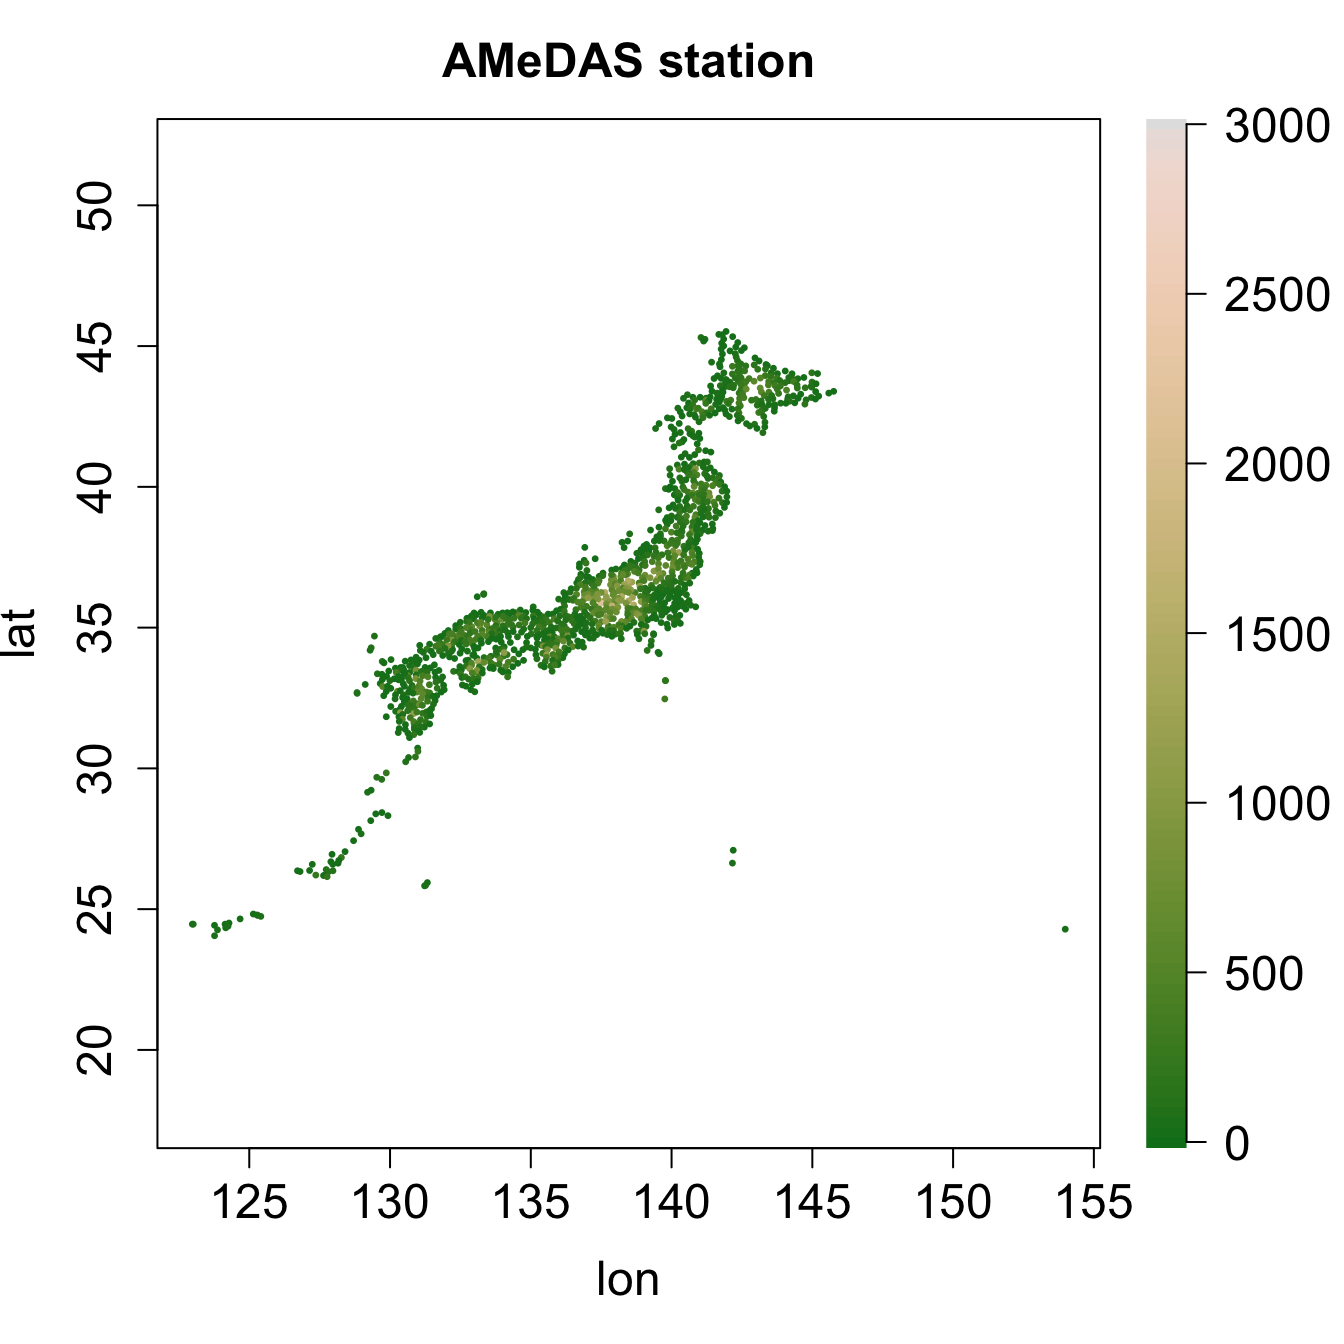
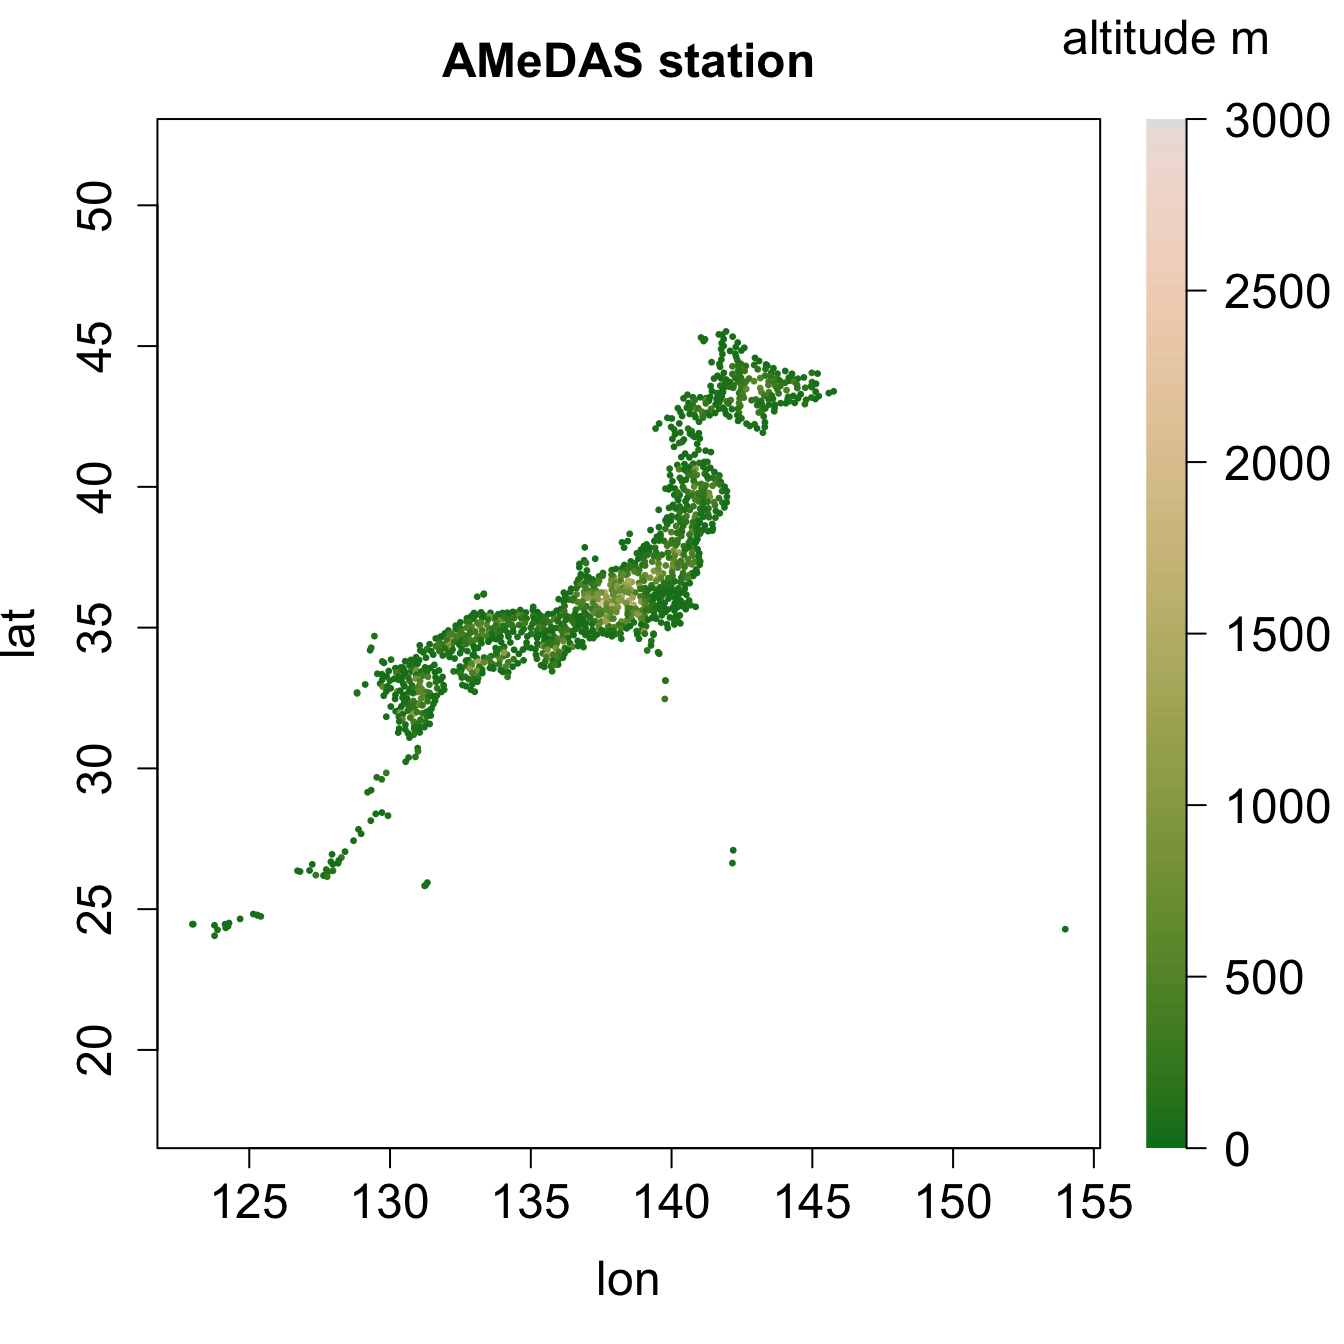
update json
FossilOrigin-Name: 3af52de8a296fb6cc3aaf31696ada55188bd7eaacb9d56dd865cb0d8b09af495

diff --git a/docs/posts/json.html b/docs/posts/json.html
@@ -252,7 +252,7 @@ pre > code.sourceCode > span > a:first-child::before { text-decoration: underlin
 <div class="cell">
 <div class="sourceCode cell-code" id="cb6"><pre class="sourceCode r code-with-copy"><code class="sourceCode r"><span id="cb6-1"><a href="#cb6-1" aria-hidden="true" tabindex="-1"></a>ncol <span class="ot">&lt;-</span> <span class="dv">100</span></span>
 <span id="cb6-2"><a href="#cb6-2" aria-hidden="true" tabindex="-1"></a>cp <span class="ot">&lt;-</span> <span class="fu">hcl.colors</span>(ncol, <span class="st">"Terrain2"</span>)</span>
-<span id="cb6-3"><a href="#cb6-3" aria-hidden="true" tabindex="-1"></a>alt.min <span class="ot">&lt;-</span> <span class="fu">min</span>(df<span class="sc">$</span>alt)</span>
+<span id="cb6-3"><a href="#cb6-3" aria-hidden="true" tabindex="-1"></a>alt.min <span class="ot">&lt;-</span> <span class="dv">0</span></span>
 <span id="cb6-4"><a href="#cb6-4" aria-hidden="true" tabindex="-1"></a>alt.max <span class="ot">&lt;-</span> <span class="dv">3000</span></span>
 <span id="cb6-5"><a href="#cb6-5" aria-hidden="true" tabindex="-1"></a>alt.normalized <span class="ot">&lt;-</span> (df<span class="sc">$</span>alt <span class="sc">-</span> alt.min) <span class="sc">/</span> (alt.max <span class="sc">-</span> alt.min)</span>
 <span id="cb6-6"><a href="#cb6-6" aria-hidden="true" tabindex="-1"></a>cl <span class="ot">&lt;-</span> cp[<span class="fu">ceiling</span>(alt.normalized <span class="sc">*</span> (ncol <span class="sc">-</span> <span class="dv">1</span>) <span class="sc">+</span> <span class="dv">1</span>)]</span>
@@ -266,10 +266,11 @@ pre > code.sourceCode > span > a:first-child::before { text-decoration: underlin
 <span id="cb6-14"><a href="#cb6-14" aria-hidden="true" tabindex="-1"></a>     <span class="at">main =</span> <span class="st">"AMeDAS station"</span>, <span class="at">xlab =</span> <span class="st">"lon"</span>, <span class="at">ylab =</span> <span class="st">"lat"</span>)</span>
 <span id="cb6-15"><a href="#cb6-15" aria-hidden="true" tabindex="-1"></a></span>
 <span id="cb6-16"><a href="#cb6-16" aria-hidden="true" tabindex="-1"></a><span class="fu">par</span>(<span class="at">mar =</span> <span class="fu">c</span>(<span class="dv">5</span>, <span class="fl">0.</span>, <span class="dv">3</span>, <span class="dv">4</span>) <span class="sc">+</span> <span class="fl">0.1</span>)</span>
-<span id="cb6-17"><a href="#cb6-17" aria-hidden="true" tabindex="-1"></a><span class="fu">image</span>(<span class="at">x =</span> <span class="dv">1</span>, <span class="at">y =</span> <span class="fu">seq</span>(alt.min, alt.max, <span class="at">length.out =</span> ncol), <span class="at">z =</span> <span class="fu">matrix</span>(<span class="dv">1</span><span class="sc">:</span>ncol, <span class="dv">1</span>, ncol),</span>
+<span id="cb6-17"><a href="#cb6-17" aria-hidden="true" tabindex="-1"></a><span class="fu">image</span>(<span class="at">x =</span> <span class="dv">1</span>, <span class="at">y =</span> <span class="dv">0</span><span class="sc">:</span>ncol, <span class="at">z =</span> <span class="fu">matrix</span>(<span class="dv">0</span><span class="sc">:</span>ncol, <span class="dv">1</span>, ncol),</span>
 <span id="cb6-18"><a href="#cb6-18" aria-hidden="true" tabindex="-1"></a>      <span class="at">col =</span> cp, <span class="at">axes =</span> <span class="cn">FALSE</span>, <span class="at">xlab =</span> <span class="st">""</span>, <span class="at">ylab =</span> <span class="st">""</span>)</span>
 <span id="cb6-19"><a href="#cb6-19" aria-hidden="true" tabindex="-1"></a>leg <span class="ot">&lt;-</span> <span class="fu">seq</span>(<span class="dv">0</span>, alt.max, <span class="dv">500</span>)</span>
-<span id="cb6-20"><a href="#cb6-20" aria-hidden="true" tabindex="-1"></a><span class="fu">axis</span>(<span class="dv">4</span>, <span class="at">at =</span> leg, <span class="at">las =</span> <span class="dv">2</span>, <span class="at">labels =</span> leg, <span class="at">cex.axis =</span> <span class="fl">1.5</span>)</span></code><button title="Copy to Clipboard" class="code-copy-button"><i class="bi"></i></button></pre></div>
+<span id="cb6-20"><a href="#cb6-20" aria-hidden="true" tabindex="-1"></a><span class="fu">axis</span>(<span class="dv">4</span>, <span class="at">at =</span> <span class="fu">seq</span>(<span class="dv">0</span>, ncol, <span class="at">length.out =</span> <span class="fu">length</span>(leg)), <span class="at">las =</span> <span class="dv">2</span>, <span class="at">labels =</span> leg, <span class="at">cex.axis =</span> <span class="fl">1.5</span>)</span>
+<span id="cb6-21"><a href="#cb6-21" aria-hidden="true" tabindex="-1"></a><span class="fu">mtext</span>(<span class="st">"altitude m"</span>, <span class="at">side =</span> <span class="dv">3</span>, <span class="at">line =</span> <span class="fl">1.5</span>, <span class="at">cex =</span> <span class="fl">1.5</span>)</span></code><button title="Copy to Clipboard" class="code-copy-button"><i class="bi"></i></button></pre></div>
 <div class="cell-output-display">
 <div>
 <figure class="figure">

diff --git a/docs/index.html b/docs/index.html
@@ -336,7 +336,7 @@ QRコード
 </div>
 </a>
 </div>
-<div class="g-col-1" data-index="5" data-categories="Zm9ybWF0JTJDcGFja2FnZQ==" data-listing-date-sort="1750431600000" data-listing-file-modified-sort="1750472461720" data-listing-date-modified-sort="NaN" data-listing-reading-time-sort="2" data-listing-word-count-sort="235">
+<div class="g-col-1" data-index="5" data-categories="Zm9ybWF0JTJDcGFja2FnZQ==" data-listing-date-sort="1750431600000" data-listing-file-modified-sort="1750473260076" data-listing-date-modified-sort="NaN" data-listing-reading-time-sort="2" data-listing-word-count-sort="247">
 <a href="./posts/json.html" class="quarto-grid-link">
 <div class="quarto-grid-item card h-100 card-left">
 <p class="card-img-top"><img src="posts/json_files/figure-html/unnamed-chunk-4-1.png" style="height: 150px;"  class="thumbnail-image card-img"/></p>

diff --git a/docs/posts/vectorize.html b/docs/posts/vectorize.html
@@ -322,18 +322,18 @@ pre > code.sourceCode > span > a:first-child::before { text-decoration: underlin
         <tbody>
                 <tr>
                   <td>loop</td>
-                  <td>0.5129</td>
+                  <td>0.5173</td>
                   <td>1</td>
                 </tr>
                 <tr>
                   <td>apply</td>
-                  <td>1.0379</td>
-                  <td>0.49</td>
+                  <td>1.0247</td>
+                  <td>0.5</td>
                 </tr>
                 <tr>
                   <td>vec</td>
-                  <td>0.0042</td>
-                  <td>123.15</td>
+                  <td>0.0041</td>
+                  <td>127</td>
                 </tr>
         </tbody>
       </table>
